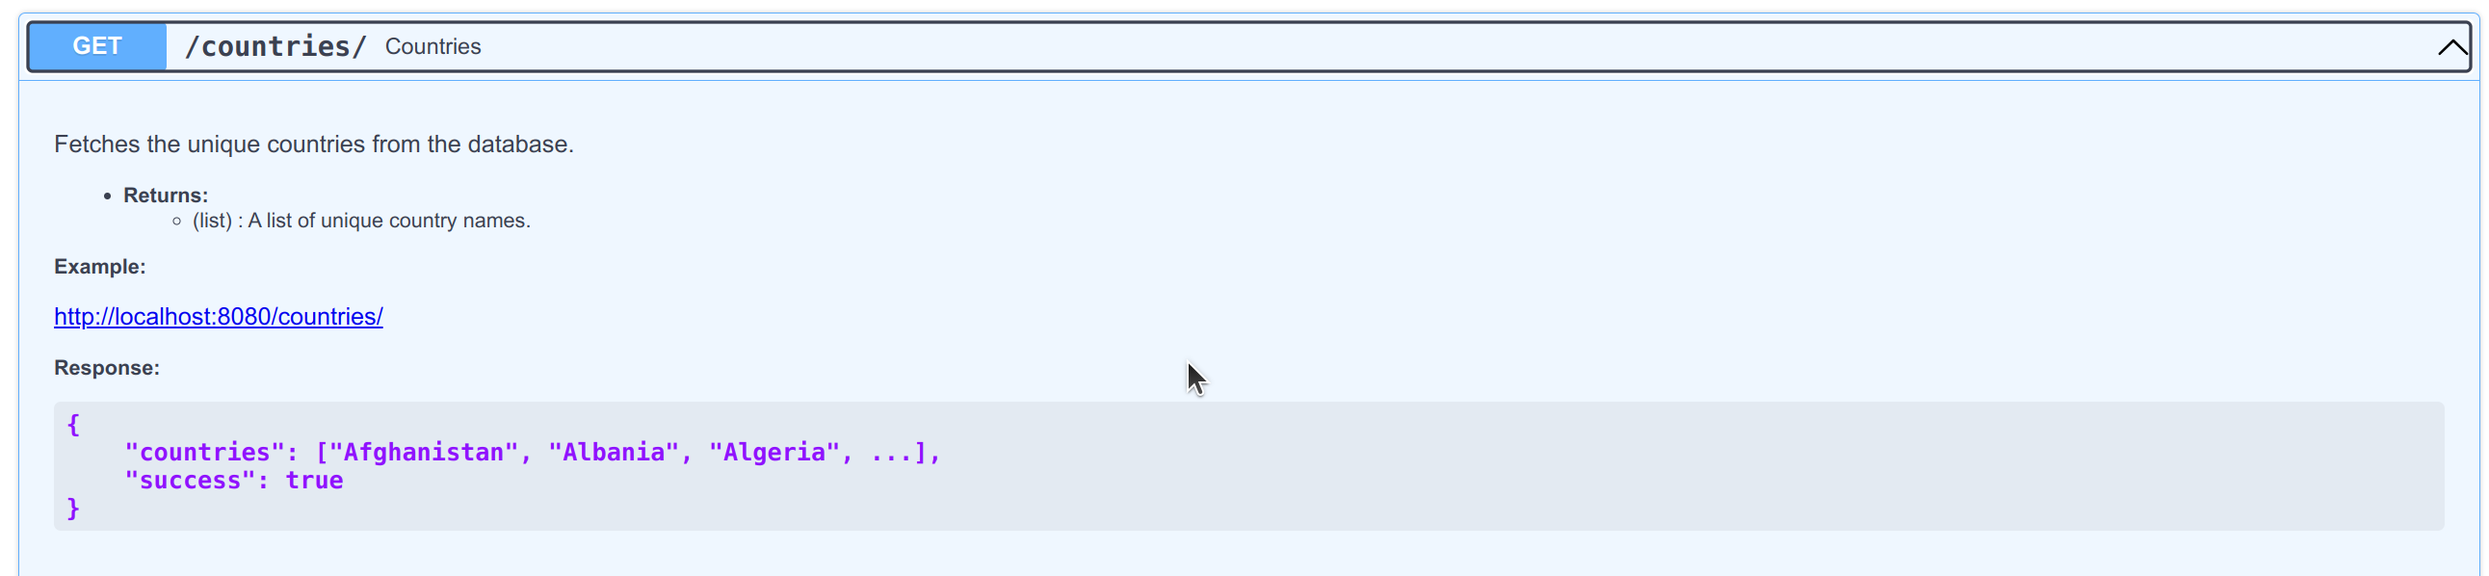
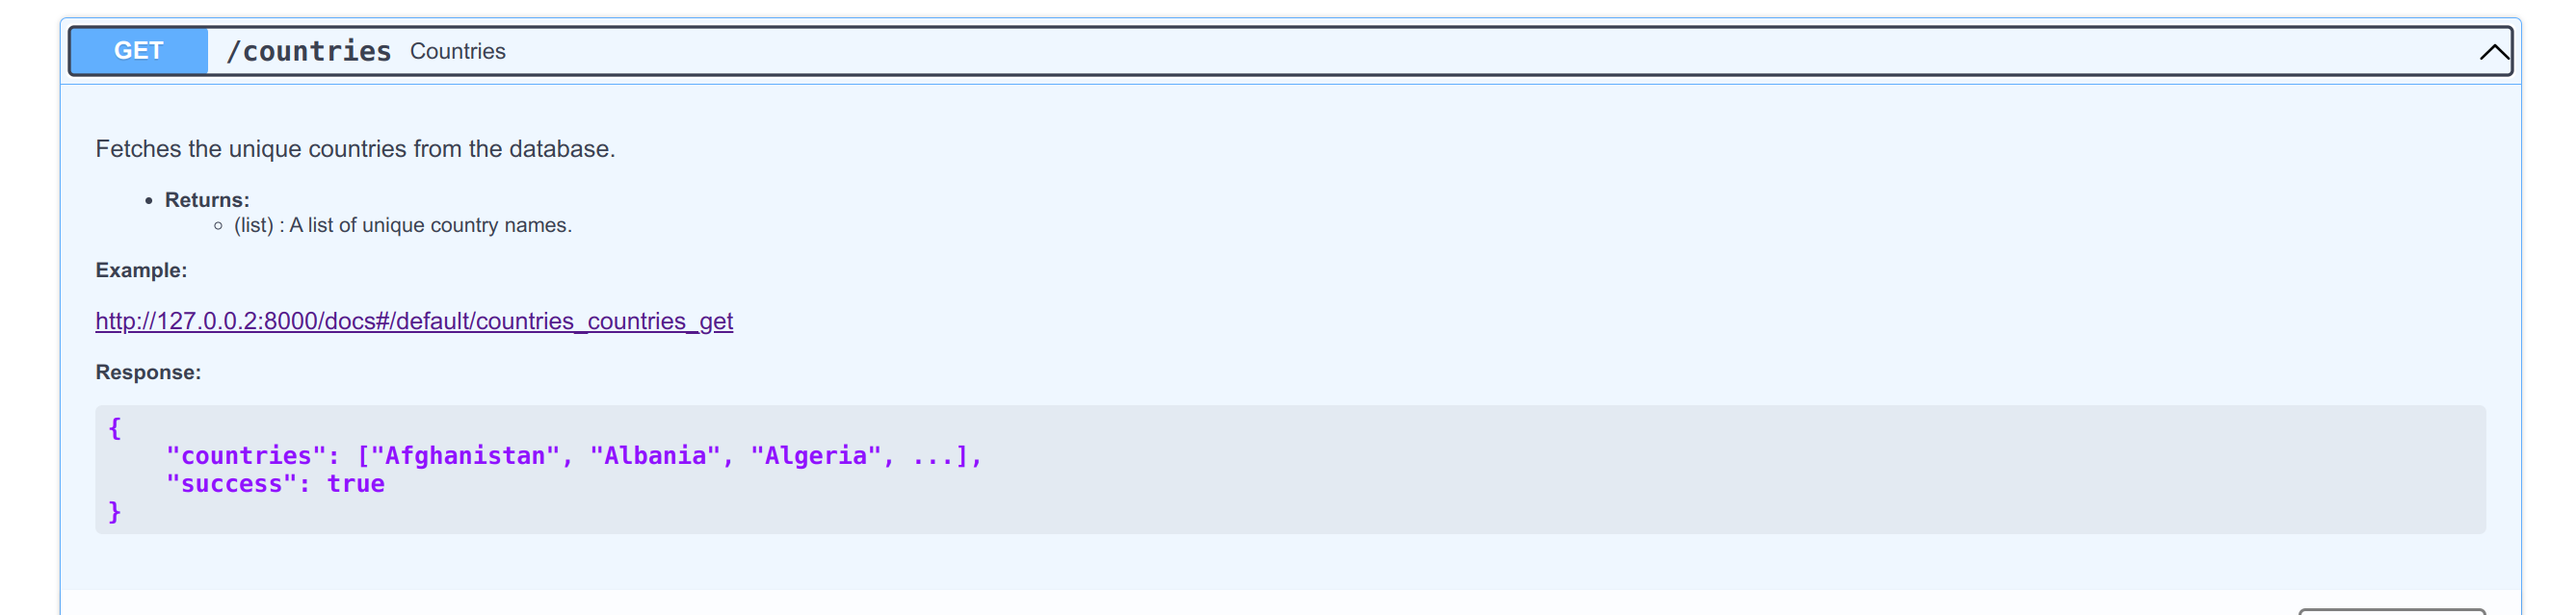
cosmetic changes

diff --git a/Assignments/A08/main.py b/Assignments/A08/main.py
@@ -206,7 +206,7 @@ async def doc_redirect():
         return {"error": "An error occurred while processing the request."}
 
 
-@app.get("/countries/")
+@app.get("/countries")
 async def countries():
     """
     Fetches the unique countries from the database.
@@ -216,7 +216,7 @@ async def countries():
 
     #### Example:
 
-    [http://localhost:8080/countries/](http://localhost:8080/countries/)
+    [http://127.0.0.2:8000/docs#/default/countries_countries_get](http://127.0.0.2:8000/docs#/default/countries_countries_get)
 
     #### Response:
 
@@ -233,7 +233,7 @@ async def countries():
         return {"error": "An error occurred while processing the request.", "success": False}
 
 
-@app.get("/regions/")
+@app.get("/regions")
 async def regions():
     """
     Fetches the unique regions from the database.
@@ -243,7 +243,7 @@ async def regions():
 
     #### Example:
 
-    [http://localhost:8080/regions/](http://localhost:8080/regions/)
+    [http://127.0.0.2:8000/docs#/default/regions_regions_get](http://127.0.0.2:8000/docs#/default/regions_regions_get)
 
     #### Response:
 
@@ -275,7 +275,7 @@ async def get_deaths(country: str = None, region: str = None, year: int = None):
 
     #### Example 1:
 
-    [http://localhost:8080/deaths/?country=Brazil](http://localhost:8080/deaths/?country=Brazil)
+    [http://127.0.0.2:8000/deaths?country=Brazil](http://127.0.0.2:8000/deaths?country=Brazil)
 
     #### Response 1:
 
@@ -286,7 +286,7 @@ async def get_deaths(country: str = None, region: str = None, year: int = None):
 
     #### Example 2:
 
-    [http://localhost:8080/deaths/?region=EMRO&year=2023](http://localhost:8080/deaths/?region=EMRO&year=2023)
+    [http://127.0.0.2:8000/deaths?region=EMRO&year=2023](http://127.0.0.2:8000/deaths?region=EMRO&year=2023)
 
     #### Response 2:
 
@@ -297,9 +297,20 @@ async def get_deaths(country: str = None, region: str = None, year: int = None):
 
     #### Example 3:
 
-    [http://localhost:8080/deaths/](http://localhost:8080/deaths/)
+    [http://127.0.0.2:8000/deaths?country=Brazil&year=2022](http://127.0.0.2:8000/deaths?country=Brazil&year=2022)
 
     #### Response 3:
+
+        {
+            "total_deaths": 74917,
+            "success": true
+        }  
+
+    #### Example 4:
+
+    [http://127.0.0.2:8000/docs#/default/get_deaths_deaths_get](http://127.0.0.2:8000/docs#/default/get_deaths_deaths_get)
+
+    #### Response 4:
 
         {
             "total_deaths": 6945714,
@@ -328,7 +339,7 @@ async def max_deaths(start_date: str = None, end_date: str = None):
 
     #### Example 1:
 
-    [http://localhost:8080/max_deaths/?start_date=2021-01-31&end_date=2021-03-30](http://localhost:8080/max_deaths/?start_date=2021-01-31&end_date=2021-03-30)
+    [http://127.0.0.2:8000/max_deaths?start_date=2021-01-31&end_date=2021-03-30](http://127.0.0.2:8000/max_deaths?start_date=2021-01-31&end_date=2021-03-30)
 
     #### Response 1:
 
@@ -340,19 +351,19 @@ async def max_deaths(start_date: str = None, end_date: str = None):
 
     #### Example 2:
 
-    [http://localhost:8080/max_deaths/](http://localhost:8080/max_deaths/)
+    [http://127.0.0.2:8000/max_deaths](http://127.0.0.2:8000/max_deaths)
 
     #### Response 2:
 
         {
-            "country": "India",
-            "Death count": 1127152,
+            "country": "United States of America",
+            "Death count:": 1127152,
             "success": true
         }
 
     """
     try:
-        return{getMaxDeaths(start_date, end_date)}
+        return getMaxDeaths(start_date, end_date)
     except Exception as e:
         print("An error occurred:", str(e))
         return {"error": "An error occurred while processing the request."}
@@ -373,10 +384,9 @@ async def min_deaths(start_date: str = None, end_date: str = None):
 
     #### Example 1:
 
-    [http://localhost:8080/min_deaths/?start_date=2021-01-31&end_date=2021-04-30](http://localhost:8080/min_deaths/?start_date=2021-01-31&end_date=2021-04-30)
+    [http://127.0.0.2:8000/min_deaths?start_date=2021-01-31&end_date=2021-04-30](http://127.0.0.2:8000/min_deaths?start_date=2021-01-31&end_date=2021-04-30)
 
     #### Response 1:
-
 
         {
             "country": "American Samoa",
@@ -386,19 +396,20 @@ async def min_deaths(start_date: str = None, end_date: str = None):
     
     #### Example 2:
 
-    [http://localhost:8080/min_deaths/](http://localhost:8080/min_deaths/)
+    [http://127.0.0.2:8000/min_deaths](http://127.0.0.2:8000/min_deaths)
 
     #### Response 2:
 
     
         {
             "country": "Democratic People's Republic of Korea",
-            "Death count:": 0
+            "Death count:": 0,
+            "success": true
         }
 
     """
     try:
-        return{getMinDeaths(start_date, end_date)}
+        return getMinDeaths(start_date, end_date)
     except Exception as e:
         print("An error occurred:", str(e))
         return {"error": "An error occurred while processing the request.", "success": False}
@@ -413,7 +424,7 @@ async def avg_deaths():
 
     #### Example:
 
-    [http://localhost:8080/avg_deaths/](http://localhost:8080/avg_deaths/)
+    [http://127.0.0.2:8000/avg_deaths](http://127.0.0.2:8000/avg_deaths)
 
     #### Response:
 
